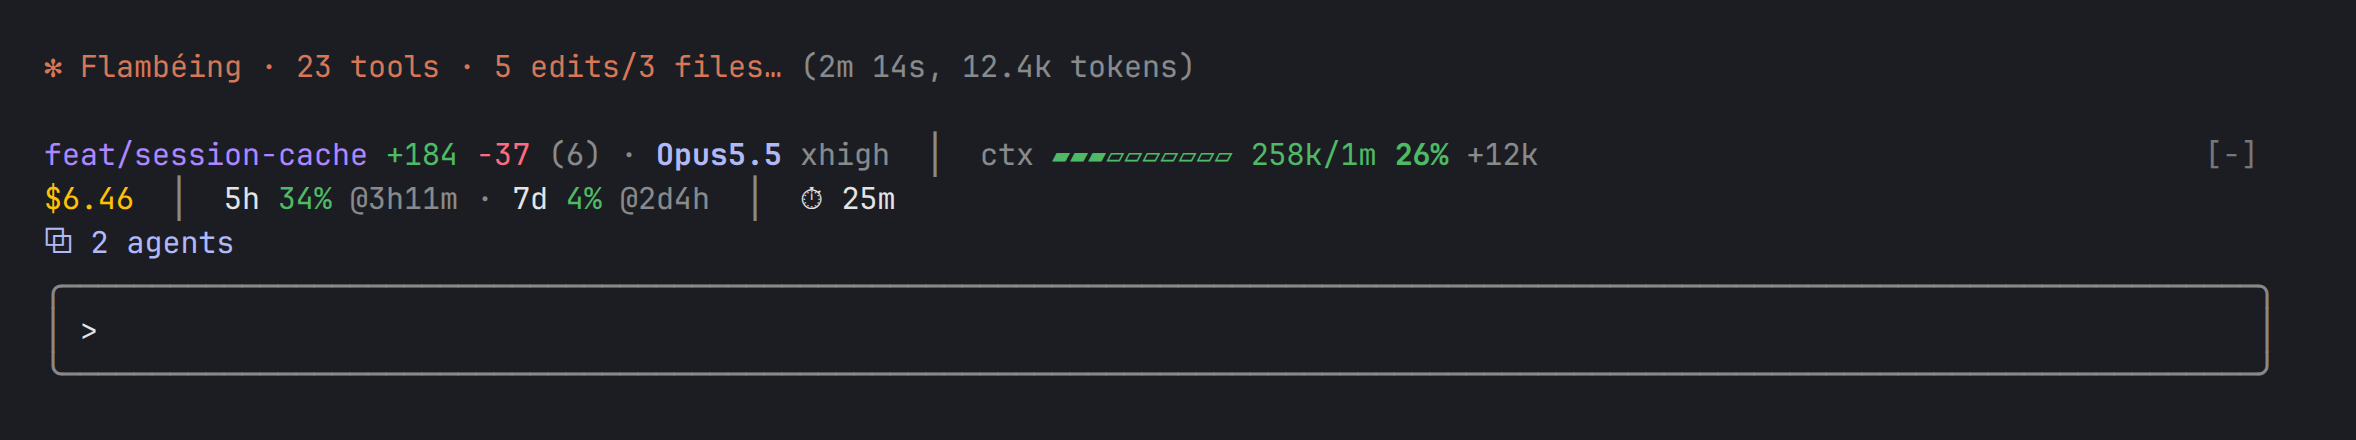
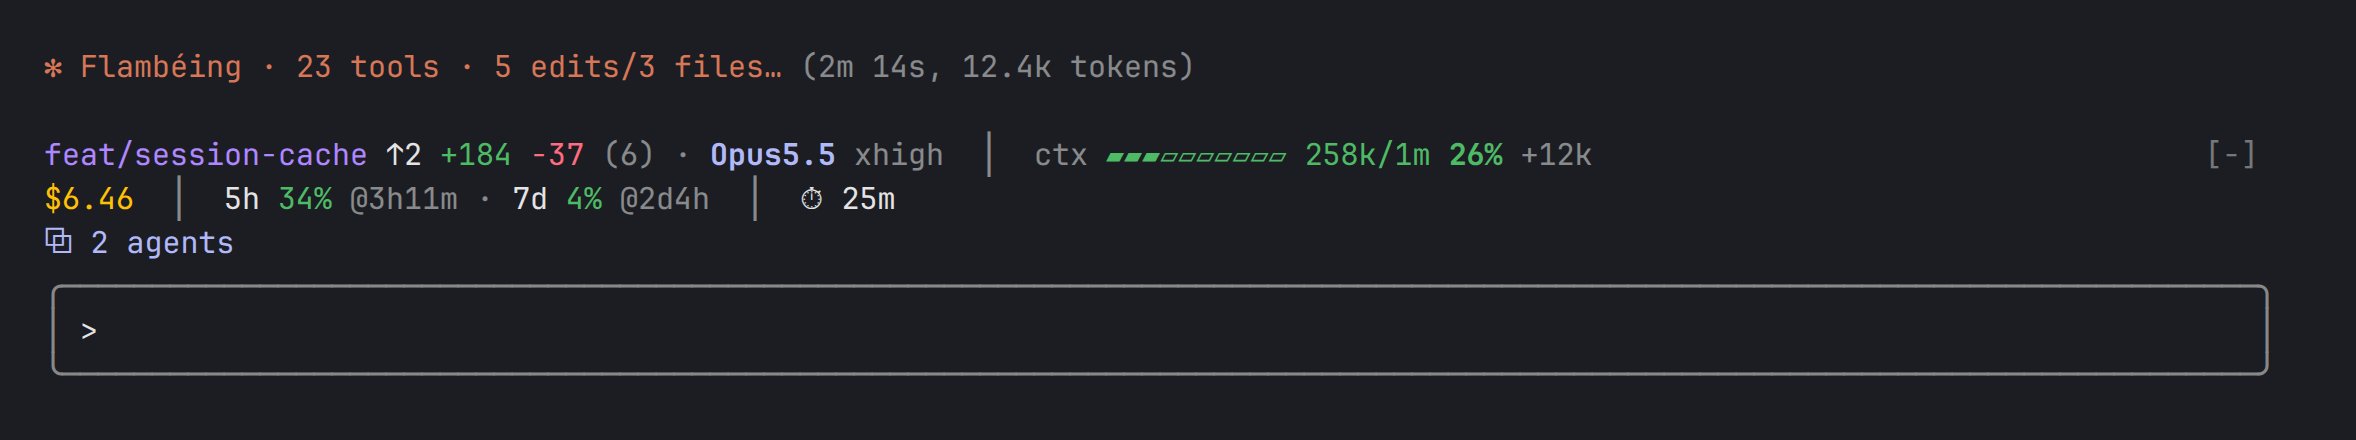
Незапушенные коммиты ↑N у ветки в полосе
В многодневной работе коммиты копятся локально, а полоса показывала
только незакоммиченный diff. Теперь первая строка говорит, на сколько
коммитов ветка опережает свой upstream: main ↑3 +184 −37 (6).

- git status запускается с --branch: upstream и ahead читаются из
  локальных refs, без fetch и без новых процессов. Строку ## разбирает
  parseStatus в hooks/format.ts, в счёт файлов она не попадает.
- ↑N виден только при upstream и ahead > 0: без upstream, при detached
  HEAD и [gone] его нет; отставание не показывается.
- Обычный цвет текста; на узком терминале ↑N остаётся, когда размер
  diff и effort уже выпали.
- Контракт $.state: LooplineIdentity.ahead.
- Тесты: parseStatus и строки полосы в tests/format.test.ts, разбор
  через движок, push через Bash и опрос в tests/loopline.test.ts.
- README, img/ и описание плагина; version 1.0.10.

Живая проверка (Haiku, tmux, локальный bare-remote в /tmp):
master ↑2 +1 (1) после двух коммитов; ↑ пропал через 2 с после push
из другого терминала; ↑1 появился через 9 с после нового коммита;
после git push через Bash в сессии ↑ пропал до конца хода.

Спецификация: .scratch/unpushed-commits/spec.md.

Changed region(s): [[0.1549, 0.325, 0.4958, 0.3841], [0.5267, 0.325, 0.6817, 0.3841]]

diff --git a/tests/loopline.test.ts b/tests/loopline.test.ts
@@ -37,10 +37,12 @@ function host(on: On, agents: AgentInfo[] = []) {
     },
   }
   const seen = { toasts: [] as string[], commands: [] as string[] }
+  // The branch line `git status --branch` prints first: the upstream, and how far ahead of it.
+  const git = { head: '## feature/loop...origin/feature/loop' }
   on('process.run', ($, e) => {
     const [cmd, sub] = e.argv
     if (cmd === 'git' && sub === 'branch') return { value: ran('feature/loop\n') }
-    if (cmd === 'git' && sub === 'status') return { value: ran(' M hooks/a.ts\n?? notes.md\n') }
+    if (cmd === 'git' && sub === 'status') return { value: ran(`${git.head}\n M hooks/a.ts\n?? notes.md\n`) }
     if (cmd === 'git' && sub === 'diff') return { value: ran(' 1 file changed, 12 insertions(+), 3 deletions(-)\n') }
     if (cmd === 'grep' && e.argv.at(-1) === transcript.path) {
       return { value: ran(`${transcript.compactions}\n`, transcript.compactions > 0 ? 0 : 1) }
@@ -83,7 +85,7 @@ function host(on: On, agents: AgentInfo[] = []) {
     const { Text } = $.ui.resolve(e)
     return Text({ children: [e.props.word + e.props.suffix] })
   })
-  return { usage, seen, compactAt, transcript, answer }
+  return { usage, seen, compactAt, transcript, answer, git }
 }
 
 const SPINNER = { plugin: 'loopline', component: 'Spinner', props: { word: 'Thinking', message: null, suffix: '…', mode: 'tool-use' } } as const
@@ -217,6 +219,37 @@ describe('the spinner', () => {
     await sub.unmount()
     const main = await $.ui.mount({ ...SPINNER, surface: 'terminal', requestId: 'main' })
     expect(await main.find({ text: 'Thinking · 1 tool · 1 edit/1 file…' })).toBeDefined()
+  })
+})
+
+describe('the branch', () => {
+  test('commits ahead of the upstream show by it until a push; a gone, missing or detached upstream shows none', async ($, on) => {
+    const clock = mock.clock(on, { now: NOW })
+    const { git } = host(on)
+    const ahead = '## feature/loop...origin/feature/loop [ahead 2, behind 5]'
+    const shows = async (pattern: RegExp) => {
+      const band = await $.ui.mount({ ...BAND, surface: 'terminal' })
+      const found = await band.find({ text: pattern })
+      await band.unmount()
+      return found
+    }
+    git.head = ahead
+    await start($)
+    expect(await shows(/feature\/loop ↑2 \+12 −3 \(2\) · Opus5\.5/)).toBeDefined()
+
+    git.head = '## feature/loop...origin/feature/loop'
+    await clock.advance(3_000)
+    await $.tool.call({ tool: 'Bash', command: 'git push' })
+    expect(await shows(/feature\/loop \+12 −3 \(2\) · Opus5\.5/)).toBeDefined()
+
+    for (const head of ['## feature/loop...origin/feature/loop [gone]', '## feature/loop', '## HEAD (no branch)']) {
+      git.head = ahead
+      await clock.advance(20_000)
+      expect(await shows(/↑2/)).toBeDefined()
+      git.head = head
+      await clock.advance(20_000)
+      expect(await shows(/feature\/loop \+12 −3 \(2\) · Opus5\.5/)).toBeDefined()
+    }
   })
 })
 

diff --git a/tests/format.test.ts b/tests/format.test.ts
@@ -16,6 +16,7 @@ import {
   fmtReset,
   fmtTokens,
   parseShortstat,
+  parseStatus,
   pinnedCacheTtl,
   projectKey,
   shortModel,
@@ -37,7 +38,7 @@ const VIEW: BandView = {
       { kind: 'seven_day', percentUsed: 12 },
     ],
   },
-  identity: { model: 'claude-opus-5-5', effort: 'xhigh', branch: 'main', dirty: 6, added: 184, removed: 37 },
+  identity: { model: 'claude-opus-5-5', effort: 'xhigh', branch: 'main', ahead: 0, dirty: 6, added: 184, removed: 37 },
   turn: null,
   ctxDelta: 12_000,
   cacheAt: NOW - 19 * 60_000,
@@ -91,6 +92,15 @@ describe('formatting', () => {
     expect(crossed(72, 80, [70, 85])).toBeNull()
     expect(parseShortstat(' 6 files changed, 184 insertions(+), 37 deletions(-)\n')).toEqual({ added: 184, removed: 37 })
     expect(parseShortstat(' 1 file changed, 1 insertion(+)\n')).toEqual({ added: 1, removed: 0 })
+  })
+
+  test('git status: the changed files, and the commits ahead of the upstream alone', () => {
+    expect(parseStatus('## main...origin/main [ahead 3]\n M a.ts\n?? b.md\n')).toEqual({ dirty: 2, ahead: 3 })
+    expect(parseStatus('## main...origin/main [ahead 2, behind 5]\n')).toEqual({ dirty: 0, ahead: 2 })
+    expect(parseStatus('## main...origin/main [behind 5]\n M a.ts\n')).toEqual({ dirty: 1, ahead: 0 })
+    for (const head of ['## main...origin/main [gone]', '## feat/x', '## HEAD (no branch)']) {
+      expect(parseStatus(`${head}\n`)).toEqual({ dirty: 0, ahead: 0 })
+    }
   })
 
   test('calls are keyed for the stuck detector; edits name their file', () => {
@@ -185,6 +195,13 @@ describe('band', () => {
 
   test('idle with background agents still running', () => {
     expect(text(bandLines({ ...VIEW, agents: { active: 1, total: 1 } })[2])).toBe('⧉ 1 agent')
+  })
+
+  test('commits ahead of the upstream sit by the branch, uncoloured, and stay when the diff gives way', () => {
+    const ahead = { ...VIEW, identity: { ...VIEW.identity, ahead: 3 } }
+    expect(text(bandLines(ahead)[0])).toBe('main ↑3 +184 −37 (6) · Opus5.5 xhigh  │  ctx ▰▰▱▱▱▱▱▱▱▱ 45k/200k 23% +12k')
+    expect(bandLines(ahead)[0]?.[1]).toEqual({ text: ' ↑3' })
+    expect(text(bandLines({ ...ahead, width: 37 })[0])).toBe('main ↑3 · Opus5.5  │  ctx 23%')
   })
 
   test('narrow: optional runs go first, with their separators', () => {

diff --git a/scripts/render-screens.ts b/scripts/render-screens.ts
@@ -49,7 +49,7 @@ const CALM: BandView = {
       { kind: 'seven_day', percentUsed: 4, resetsAt: reset(2 * DAY + 4 * HOUR) },
     ],
   },
-  identity: { model: 'claude-opus-5-5', effort: 'xhigh', branch: 'main', dirty: 0, added: 0, removed: 0 },
+  identity: { model: 'claude-opus-5-5', effort: 'xhigh', branch: 'main', ahead: 0, dirty: 0, added: 0, removed: 0 },
   turn: null,
   ctxDelta: 9_000,
   cacheAt: NOW - 2 * MIN,
@@ -75,7 +75,7 @@ const EDITING: BandView = {
       { kind: 'seven_day', percentUsed: 4, resetsAt: reset(2 * DAY + 4 * HOUR) },
     ],
   },
-  identity: { ...CALM.identity, branch: 'feat/session-cache', dirty: 6, added: 184, removed: 37 },
+  identity: { ...CALM.identity, branch: 'feat/session-cache', ahead: 2, dirty: 6, added: 184, removed: 37 },
   ctxDelta: 12_000,
   cacheAt: NOW - 19 * MIN,
 }
@@ -101,7 +101,7 @@ function band(view: BandView): Row[] {
 
 const SCENARIOS: { caption: string; rows: Row[] }[] = [
   { caption: 'Спокойная сессия на подписке: чистое дерево, кэш тёплый ещё 58 минут', rows: band(CALM) },
-  { caption: 'Незакоммиченные правки (+строки −строки, файлы) и прирост контекста за последний ход', rows: band(EDITING) },
+  { caption: 'Незапушенные коммиты (↑), незакоммиченные правки (+строки −строки, файлы) и прирост контекста за ход', rows: band(EDITING) },
   {
     caption: 'Claude работает: счётчики хода дописаны в спиннер, в работе два фоновых агента',
     rows: [spinnerRow(WORKING, 'Flambéing', '(2m 14s, 12.4k tokens)'), { blank: true }, ...band(WORKING)],
@@ -153,7 +153,7 @@ const SCENARIOS: { caption: string; rows: Row[] }[] = [
     }),
   },
   {
-    caption: 'Узкий терминал: первыми прячутся бар, токены, прирост и время сброса, затем effort и правки',
+    caption: 'Узкий терминал: первыми прячутся бар, токены, прирост и время сброса, затем effort и правки; ↑ остаётся',
     rows: band({ ...EDITING, width: 46 }),
   },
 ]

diff --git a/hooks/register.tsx b/hooks/register.tsx
@@ -11,6 +11,7 @@ import {
   isActiveAgent,
   limitLabel,
   parseShortstat,
+  parseStatus,
   pinnedCacheTtl,
   projectKey,
   spinnerSuffix,
@@ -31,6 +32,7 @@ const identityAtom = atom({ plugin: 'loopline', key: 'identity' } as const, {
   model: null,
   effort: null,
   branch: null,
+  ahead: 0,
   dirty: 0,
   added: 0,
   removed: 0,
@@ -327,7 +329,7 @@ async function refreshGit($: EngineInterface, now: number): Promise<void> {
   gitCheckedAt = now
   const current = await $.process.run(['git', 'branch', '--show-current'], { timeoutMs: 5_000 }).catch(() => null)
   if (current === null || current.exitCode !== 0) {
-    await update($, identityAtom, id => ({ ...id, branch: null, dirty: 0, added: 0, removed: 0 }))
+    await update($, identityAtom, id => ({ ...id, branch: null, ahead: 0, dirty: 0, added: 0, removed: 0 }))
     return
   }
   let branch = current.stdout.trim()
@@ -335,13 +337,14 @@ async function refreshGit($: EngineInterface, now: number): Promise<void> {
     const head = await $.process.run(['git', 'rev-parse', '--short', 'HEAD'], { timeoutMs: 5_000 }).catch(() => null)
     branch = head?.stdout.trim() || 'HEAD'
   }
-  const status = await $.process.run(['git', 'status', '--porcelain'], { timeoutMs: 5_000 }).catch(() => null)
-  const dirty = status === null ? 0 : status.stdout.split('\n').filter(Boolean).length
+  // `--branch` reads the upstream from local refs: no fetch, so nothing behind is known or shown.
+  const status = await $.process.run(['git', 'status', '--porcelain', '--branch'], { timeoutMs: 5_000 }).catch(() => null)
+  const { dirty, ahead } = parseStatus(status === null ? '' : status.stdout)
   const stat = dirty === 0
     ? null
     : await $.process.run(['git', 'diff', 'HEAD', '--shortstat'], { timeoutMs: 5_000 }).catch(() => null)
   const { added, removed } = parseShortstat(stat !== null && stat.exitCode === 0 ? stat.stdout : '')
-  await update($, identityAtom, id => ({ ...id, branch, dirty, added, removed }))
+  await update($, identityAtom, id => ({ ...id, branch, ahead, dirty, added, removed }))
 }
 
 async function refreshAgents($: EngineInterface): Promise<void> {

diff --git a/hooks/format.ts b/hooks/format.ts
@@ -179,6 +179,17 @@ export function crossed(prev: number, next: number, marks: readonly number[]): n
   return hit
 }
 
+/**
+ * `git status --porcelain --branch` -> changed and untracked files, and commits ahead of the upstream.
+ * Without an upstream, detached or with the upstream gone, the `##` line names no `ahead`.
+ */
+export function parseStatus(text: string): { dirty: number; ahead: number } {
+  const lines = text.split('\n').filter(Boolean)
+  const head = lines[0]?.startsWith('## ') === true ? lines.shift() : undefined
+  const ahead = head === undefined ? undefined : /\[ahead (\d+)/.exec(head)?.[1]
+  return { dirty: lines.length, ahead: Number(ahead ?? 0) }
+}
+
 /** `git diff --shortstat` -> lines added and removed. */
 export function parseShortstat(text: string): { added: number; removed: number } {
   const added = /(\d+) insertions?\(\+\)/.exec(text)?.[1]
@@ -286,7 +297,9 @@ function identityLine(v: BandView): Seg[] {
       if (identity.removed > 0) diff.push({ text: ` −${identity.removed}`, color: 'error', optional: true, group: 'diff' })
       diff.push({ text: ` (${identity.dirty})`, dim: true, optional: true })
     }
-    who.push([{ text: identity.branch, color: 'merged' }, ...diff])
+    // What waits to be pushed stays when the diff gives way.
+    const ahead: Seg[] = identity.ahead > 0 ? [{ text: ` ↑${identity.ahead}` }] : []
+    who.push([{ text: identity.branch, color: 'merged' }, ...ahead, ...diff])
   }
   who.push([
     { text: shortModel(identity.model), color: 'suggestion', bold: true },

diff --git a/types/index.d.ts b/types/index.d.ts
@@ -19,6 +19,8 @@ export type LooplineIdentity = {
   model: string | null
   effort: string | null
   branch: string | null
+  /** Commits the branch is ahead of its upstream; 0 without one. */
+  ahead: number
   /** Changed and untracked files in the working tree. */
   dirty: number
   /** Lines added and removed against HEAD. */

diff --git a/README.md b/README.md
@@ -11,12 +11,13 @@
 - **контекст** растёт с каждым ходом, а после сжатия часть его теряется навсегда;
 - **prompt cache** остывает в перерыве, и следующий запрос заново записывает весь контекст;
 - **лимиты подписки** кончаются раньше сброса, если тратить их быстрее среднего;
-- **незакоммиченные правки** копятся, хотя маленькие порции и частые коммиты проще ревьюить.
+- **незакоммиченные правки** копятся, хотя маленькие порции и частые коммиты проще ревьюить;
+- **незапушенные коммиты** остаются только на этой машине, когда сессия кончается.
 
 ## Что показывает
 
 ```
-Полоса, строка 1:  ветка +строки −строки (файлы) · модель effort  │  ctx бар токены/окно % прирост · compact in N · compacted ×N
+Полоса, строка 1:  ветка ↑коммиты +строки −строки (файлы) · модель effort  │  ctx бар токены/окно % прирост · compact in N · compacted ×N
 Полоса, строка 2:  $стоимость  │  5h % @сброс · 7d % @сброс  │  cache Nm  │  ⏱ длительность
 Полоса, строка 3:  ⧉ N agents  │  ⚠ команда failed N× in a row
 Спиннер:           ✻ Flambéing · N tools · N edits/N files… (время и токены рисует Claude Code)
@@ -27,6 +28,7 @@
 | Элемент | Что значит | Когда виден |
 |---|---|---|
 | `main +184 −37 (6)` | ветка и незакоммиченные правки относительно `HEAD`: добавленные и удалённые строки, в скобках число изменённых и новых файлов | ветка всегда, правки при грязном дереве |
+| `↑3` | сколько коммитов ветка опережает свой upstream: их пора запушить. Считается по локальным refs, без `fetch`, поэтому отставание от remote не показывается | только если у ветки есть upstream и в нём нет хотя бы одного её коммита |
 | `Opus5.5 xhigh` | модель и effort, **реально применённые** к последнему запросу, уже после возможного тихого понижения | всегда |
 | `ctx ▰▰▰▱▱ 258k/1m 26%` | заполнение контекста; цвет: зелёный до 70%, жёлтый до 85%, дальше красный. Во время хода обновляется раз в 5 секунд, сразу после сжатия показывает `—`, пока не придёт следующий ответ | всегда |
 | `+12k` | на сколько контекст вырос за последний ход (после сжатия будет минус) | после хода |
@@ -49,7 +51,7 @@
 
 Картинки отрисованы настоящим кодом мода (`hooks/format.ts`) скриптом `scripts/render-screens.ts`. Цвета приближены к тёмной теме Claude Code; в вашем терминале цвета берутся из выбранной темы.
 
-На узком терминале строки не переносятся. Первыми исчезают второстепенные части: бар, токены, прирост, время сброса, `⏱`, затем effort и размер правок. Проценты и предупреждения остаются.
+На узком терминале строки не переносятся. Первыми исчезают второстепенные части: бар, токены, прирост, время сброса, `⏱`, затем effort и размер правок. Проценты, `↑N` и предупреждения остаются.
 
 ## Чего мод не делает
 
